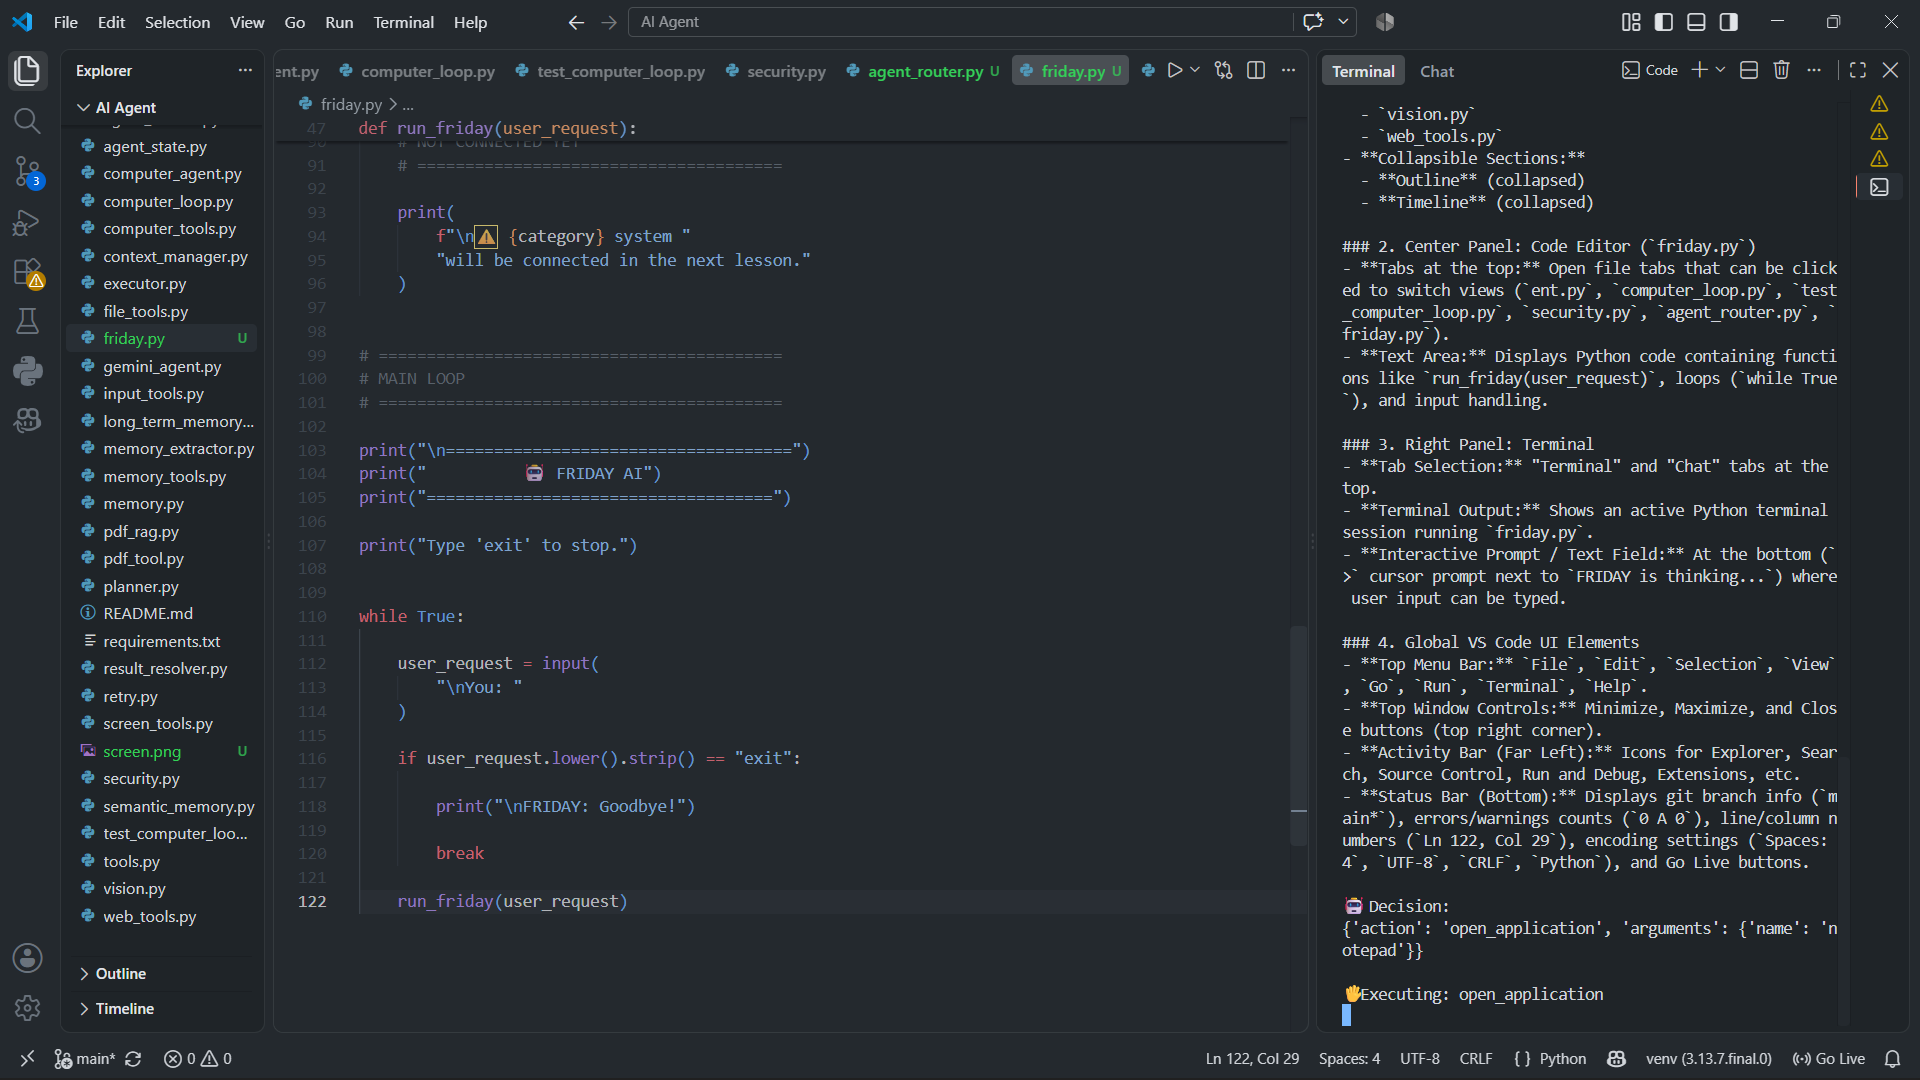
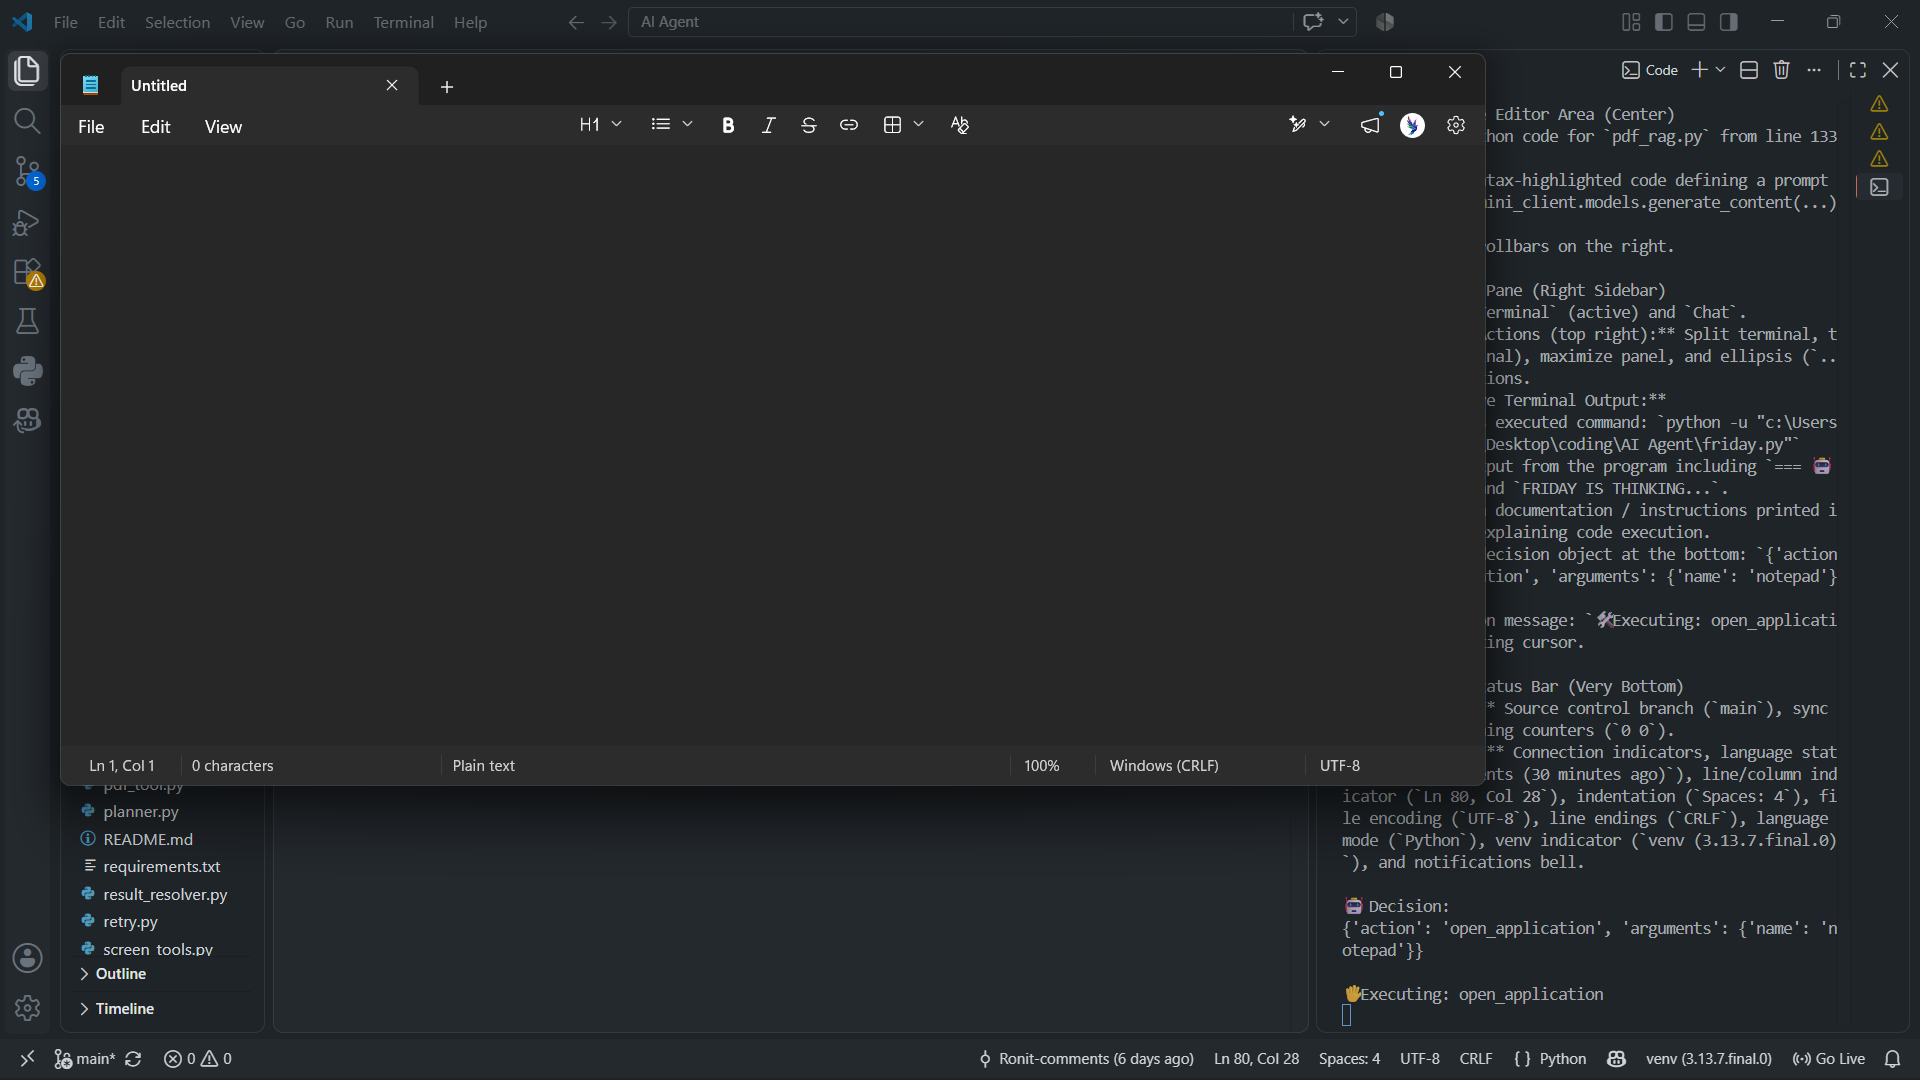
Integrate utility tools and security layer

diff --git a/utility_agent.py b/utility_agent.py
@@ -1,0 +1,223 @@
+import json
+import inspect
+
+from google import genai
+from dotenv import load_dotenv
+import os
+
+from executor import execute_task
+from agent_state import AgentState
+
+
+# ==========================================
+# GEMINI SETUP
+# ==========================================
+
+load_dotenv()
+
+client = genai.Client(
+    api_key=os.getenv("GEMINI_API_KEY")
+)
+
+
+# ==========================================
+# AGENT STATE
+# ==========================================
+
+state = AgentState()
+
+
+# ==========================================
+# ALLOWED UTILITY ACTIONS
+# ==========================================
+
+ALLOWED_ACTIONS = [
+    "add",
+    "subtract",
+    "multiply",
+    "divide",
+
+    "search_pdf",
+
+    "create_folder",
+    "create_file",
+    "read_file",
+    "rename_path",
+    "move_path"
+]
+
+
+# ==========================================
+# GET TOOL SIGNATURES
+# ==========================================
+
+def get_tool_information():
+
+    from executor import TOOL_REGISTRY
+
+    information = {}
+
+    for action in ALLOWED_ACTIONS:
+
+        tool = TOOL_REGISTRY.get(action)
+
+        if tool is None:
+            continue
+
+        information[action] = str(
+            inspect.signature(tool)
+        )
+
+    return information
+
+
+# ==========================================
+# DECIDE UTILITY ACTION
+# ==========================================
+
+def decide_utility_action(user_request):
+
+    tool_information = get_tool_information()
+
+    prompt = f"""
+You are the utility controller of a personal AI agent.
+
+User request:
+
+{user_request}
+
+Available actions:
+
+{json.dumps(tool_information, indent=2)}
+
+Choose the correct action.
+
+Return ONLY valid JSON.
+
+Format:
+
+{{
+    "action": "action_name",
+    "arguments": {{}}
+}}
+
+Rules:
+
+1. Use calculator actions for mathematical operations.
+
+2. Use search_pdf when the user asks about information
+   contained in a PDF.
+
+3. Use file actions for creating, reading, renaming,
+   moving files or folders.
+
+4. Use the exact parameter names shown in the tool
+   signatures.
+
+5. Do not invent parameter names.
+
+6. Do not use Markdown.
+
+7. Do not provide explanations.
+"""
+
+    response = client.models.generate_content(
+        model="gemini-3.5-flash-lite",
+        contents=prompt
+    )
+
+    text = response.text.strip()
+
+    # Remove Markdown fences if Gemini adds them
+
+    if text.startswith("```"):
+
+        text = text.replace(
+            "```json",
+            ""
+        )
+
+        text = text.replace(
+            "```",
+            ""
+        )
+
+        text = text.strip()
+
+    try:
+
+        return json.loads(text)
+
+    except json.JSONDecodeError:
+
+        print(
+            "\n❌ Invalid utility decision:"
+        )
+
+        print(text)
+
+        return {
+            "action": "error",
+            "arguments": {},
+            "message": text
+        }
+
+
+# ==========================================
+# RUN UTILITY TASK
+# ==========================================
+
+def run_utility_task(user_request):
+
+    print(
+        "\n🛠 Utility agent started."
+    )
+
+    action = decide_utility_action(
+        user_request
+    )
+
+    print(
+        "\n🤖 Utility decision:"
+    )
+
+    print(action)
+
+    if action.get("action") == "error":
+
+        return {
+            "success": False,
+            "error": action.get(
+                "message",
+                "Invalid decision."
+            )
+        }
+
+    task = {
+        "action": action.get(
+            "action"
+        ),
+
+        "arguments": action.get(
+            "arguments",
+            {}
+        )
+    }
+
+    print(
+        f"\n🖐 Executing: "
+        f"{task['action']}"
+    )
+
+    result = execute_task(
+        task,
+        state
+    )
+
+    print(
+        "\nResult:"
+    )
+
+    print(result)
+
+    return result

diff --git a/security.py b/security.py
@@ -1,31 +1,60 @@
 # ==========================================
-# Allowed computer actions
+# SECURITY CONFIGURATION
 # ==========================================
 
+
+# Actions that FRIDAY is allowed to execute
 ALLOWED_ACTIONS = {
+
+    # ======================================
+    # Calculator
+    # ======================================
+
+    "add",
+    "subtract",
+    "multiply",
+    "divide",
+
+    # ======================================
+    # PDF
+    # ======================================
+
+    "search_pdf",
+
+    # ======================================
+    # Computer
+    # ======================================
+
     "open_application",
     "open_website",
+
+    "move_mouse",
+    "click_mouse",
     "type_text",
     "press_key",
-    "click_mouse",
     "scroll",
+
+    # ======================================
+    # Files
+    # ======================================
+
+    "create_folder",
+    "create_file",
+    "read_file",
+    "rename_path",
+    "move_path",
+
+    # ======================================
+    # Web
+    # ======================================
+
+    "search_web",
+
 }
 
 
 # ==========================================
-# Actions requiring confirmation
-# ==========================================
-
-CONFIRMATION_REQUIRED = {
-    "delete_file",
-    "delete_folder",
-    "install_program",
-    "run_command",
-}
-
-
-# ==========================================
-# Check whether action is allowed
+# CHECK WHETHER ACTION IS ALLOWED
 # ==========================================
 
 def is_action_allowed(action):
@@ -34,9 +63,24 @@ def is_action_allowed(action):
 
 
 # ==========================================
-# Check whether action needs confirmation
+# ACTIONS REQUIRING USER CONFIRMATION
+# ==========================================
+
+CONFIRMATION_REQUIRED_ACTIONS = {
+
+    # File operations that can modify data
+    "create_folder",
+    "create_file",
+    "rename_path",
+    "move_path",
+
+}
+
+
+# ==========================================
+# CHECK WHETHER CONFIRMATION IS REQUIRED
 # ==========================================
 
 def needs_confirmation(action):
 
-    return action in CONFIRMATION_REQUIRED
+    return action in CONFIRMATION_REQUIRED_ACTIONS

diff --git a/friday.py b/friday.py
@@ -1,6 +1,9 @@
+from unicodedata import category
+
 from agent_router import classify_request
 from computer_loop import run_computer_loop
 from web_agent import run_web_task
+from utility_agent import run_utility_task
 
 from google import genai
 from dotenv import load_dotenv
@@ -97,6 +100,41 @@ def run_friday(user_request):
             )
 
         return
+    
+    # ======================================
+# UTILITY TOOLS
+# ======================================
+
+    if category in [
+    "calculator",
+    "pdf",
+    "file"
+]:
+
+        result = run_utility_task(
+        user_request
+    )
+
+    print("\n🛠 FRIDAY:")
+
+    if result.get("success", False):
+
+        print(result)
+
+    else:
+
+        print(
+            "❌ Utility task failed:"
+        )
+
+        print(
+            result.get(
+                "error",
+                "Unknown error"
+            )
+        )
+
+    return
 
     # ======================================
     # NORMAL CONVERSATION

diff --git a/executor.py b/executor.py
@@ -174,10 +174,10 @@ def normalize_arguments(action, arguments):
                 "app"
             )
 
-        elif "app_name" in arguments:
+        elif "application_name" in arguments:
 
             arguments["application"] = arguments.pop(
-                "app_name"
+                "application_name"
             )
 
 
